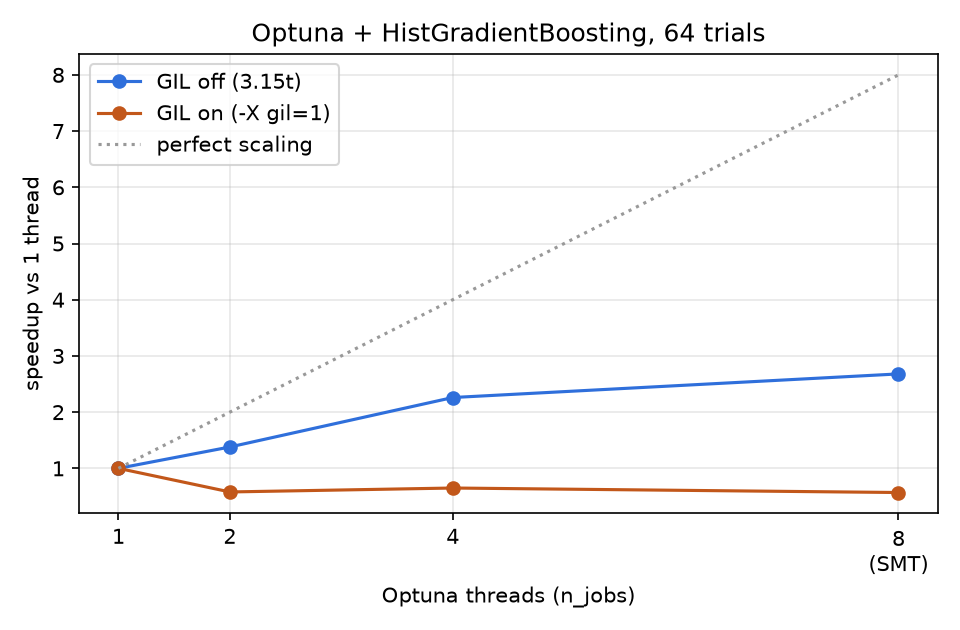
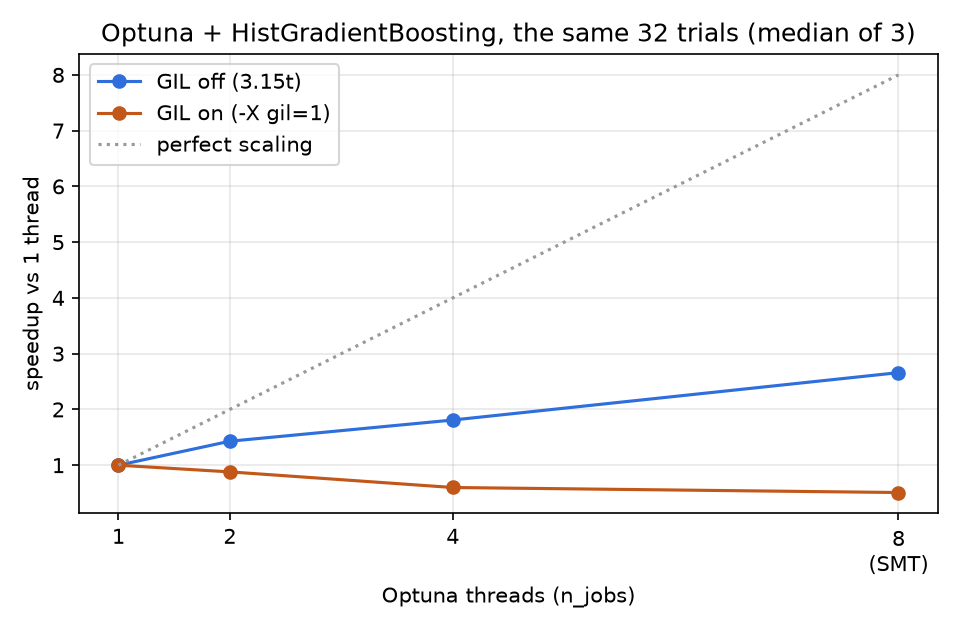
docs(red-tide): honest results — the count, not the weather, beats persistence; fair benchmark: 2.66x with 8 threads GIL-free, 0.51x GIL-on

diff --git a/red-tide/README.md b/red-tide/README.md
@@ -2,8 +2,9 @@
 
 Two questions, one experiment, on Python 3.15t (the free-threaded build):
 
-1. **Can weather and recent counts predict a Florida red tide bloom a week ahead?** Yes, better
-   than "it was a bloom last time", though not well enough to call the *start* of a bloom.
+1. **Can weather and recent counts predict a Florida red tide bloom a week ahead?** The recent
+   counts can, clearly better than "it was a bloom last time". The weather adds nothing measurable,
+   and nothing calls the *start* of a bloom reliably.
 2. **Does Optuna tuning get faster with threads when the GIL is off?** Yes: 2.7× with 8 threads.
    With the GIL on, the same threads make it *slower* than one thread.
 
@@ -21,26 +22,31 @@ to Naples), the model sees only data up to **t − 7 days**:
 - the latest *K. brevis* count within 20 km, at least 7 days old.
 
 Split by time, never at random: train 2000–2015 (18,720 samples), validate 2016–2017, test
-2018 to March 2024 (9,489 samples, 1,305 blooms). Two baselines and two scikit-learn models,
-each tuned with 100 Optuna trials on the validation years, then refit on 2000–2017:
+2018 to March 2024 (9,489 samples, 1,305 blooms). Two baselines and three scikit-learn models,
+each tuned with 100 Optuna trials on the validation years, then refit on 2000–2017. The "count
+only" model sees just the last nearby count, to show what the other features add:
 
 | Model | Test PR-AUC | Recall at 50 % precision | Onset PR-AUC |
 |---|---|---|---|
 | persistence: "a bloom if the last nearby count was one" | 0.420 | 0.688 | 0.052 |
 | season: bloom rate of the month in the training years | 0.232 | 0.000 | 0.088 |
-| logistic regression | **0.558** | **0.754** | **0.173** |
-| gradient boosting (`HistGradientBoostingClassifier`) | 0.553 | 0.734 | 0.160 |
+| count only: logistic regression on the last count | 0.554 | 0.737 | 0.163 |
+| logistic regression, all features | **0.558** | **0.754** | 0.173 |
+| gradient boosting (`HistGradientBoostingClassifier`), all features | 0.556 | 0.752 | **0.178** |
 
 PR-AUC is the main score because blooms are rare; guessing scores the bloom rate (0.138 on the
 test years). Accuracy is not reported: "never a bloom" would be 86 % accurate.
 
 What it means:
 
-- **Both models beat persistence clearly** (0.55 against 0.42). Blooms last for weeks, so the
-  last count carries most of the signal; weather and season add a real amount on top.
-- **The simple model is as good as the boosted one.** The logistic regression even edges ahead,
-  and its tuning settled on strong regularization: with these features there is little
-  non-linear structure for boosting to find.
+- **The gain over persistence comes from the count itself.** Persistence only asks "was the last
+  count a bloom?"; using *how large* it was lifts PR-AUC from 0.42 to 0.55. Blooms last for weeks,
+  and the size of the last count says how far along one is.
+- **Weather and season add almost nothing.** All features together score 0.556–0.558 against
+  0.554 for the count alone: within noise. Air temperature, wind and rain from a reanalysis grid
+  are too coarse a stand-in for what drives a bloom offshore.
+- **Boosting finds nothing the linear model misses.** The best parameters are in
+  [`results/best_params.json`](results/best_params.json).
 - **The start of a bloom stays hard.** On "onset" samples (no bloom nearby a week before; 407
   blooms among 7,850), the models score about 3× the bloom rate, but at 50 % precision they catch
   none. They can rank a risky week higher; they cannot raise a reliable alarm.
@@ -50,34 +56,38 @@ to try; the free NOAA servers for them timed out from the dev machine when check
 
 ## The threads
 
-The same Optuna study (64 trials of the gradient boosting model, fixed seed) on the same 3.15t
-interpreter, once with the GIL off (default) and once forced on with `-X gil=1`. scikit-learn's own
-OpenMP/BLAS threads are pinned to 1, so only Optuna's threads count. Each run is a fresh process.
+The same 32 Optuna trials of the gradient boosting model in every cell: the parameter sets are
+drawn once with a seeded sampler ([`results/bench_params.json`](results/bench_params.json)) and
+queued, so the thread count cannot change which trials run, and early stopping is off so each
+trial's cost is fixed. Same 3.15t interpreter, GIL off (default) or forced on with `-X gil=1`;
+scikit-learn's own OpenMP/BLAS threads are pinned to 1, so only Optuna's threads count. Each run
+is a fresh process; GIL modes alternate and the whole grid ran 3 times. The table shows medians
+(the three runs agree within about 2 %; all runs are in `results/bench_runs.csv`).
 
 ![Speedup against threads, GIL off and on](results/bench.png)
 
 | Threads | GIL off: seconds | speedup | GIL on: seconds | speedup |
 |---|---|---|---|---|
-| 1 | 118.9 | 1.00 | 121.4 | 1.00 |
-| 2 | 86.4 | 1.38 | 208.4 | 0.58 |
-| 4 | 52.7 | 2.26 | 186.5 | 0.65 |
-| 8 (SMT) | 44.5 | 2.68 | 213.8 | 0.57 |
+| 1 | 53.3 | 1.00 | 56.6 | 1.00 |
+| 2 | 37.4 | 1.43 | 64.4 | 0.88 |
+| 4 | 29.5 | 1.81 | 94.1 | 0.60 |
+| 8 (SMT) | 20.0 | 2.66 | 111.5 | 0.51 |
 
-Machine: AMD Ryzen 5 2500U, 4 cores / 8 threads, a desktop session with a browser open (load
-about 1.7 before the run), so the numbers are indicative. The 8-thread point uses SMT, where the
-curve flattens as expected. With the GIL on, the threads take turns holding it, and the switching
-costs more than the work they could share, so 2 to 8 threads end up slower than 1 (likely
-explanation, not profiled).
+Machine: AMD Ryzen 5 2500U, 4 cores / 8 threads, a desktop session with a browser open (about
+1.7 load from other apps), so absolute times are indicative; the repeats agree closely. The 8-thread point uses SMT, where the
+curve keeps rising but well below perfect scaling. With the GIL on, every added thread makes the
+study slower: the threads take turns holding the GIL, and the hand-offs cost more than the work
+they could share (likely explanation, not profiled).
 
 ## Lazy imports (PEP 810)
 
-`cli.py` imports pandas, scikit-learn, Optuna and its own modules with `lazy import`, so
-`bloom --help` does not load them:
+`cli.py` imports pandas and its own modules with `lazy import`; scikit-learn and Optuna come in
+only through those modules, so `bloom --help` loads none of them:
 
 | `bloom --help` | median of 15 runs |
 |---|---|
-| lazy imports (as shipped) | 0.078 s |
-| everything eager | 1.891 s |
+| lazy imports (as shipped) | 0.092 s |
+| everything eager | 1.794 s |
 
 This 3.15 build accepts only `-X lazy_imports=all|normal`, with no `none`, so the eager run turns
 the lazy imports off with `sys.set_lazy_imports_filter(lambda *a: False)`.
@@ -88,7 +98,7 @@ the lazy imports off with `sys.set_lazy_imports_filter(lambda *a: False)`.
 cd red-tide
 uv run bloom fetch      # HABSOS + Open-Meteo into data/ (about an hour: the free API is paced)
 uv run bloom train      # features, tuning, evaluation on the test years -> results/metrics.csv
-uv run bloom bench      # the threading grid and startup times -> results/bench.csv, bench.png
+uv run bloom bench      # the threading grid (about 25 min) and startup times -> results/
 uv run bloom report     # prints the tables above
 uv run pytest           # offline; tests never touch the network
 ```
